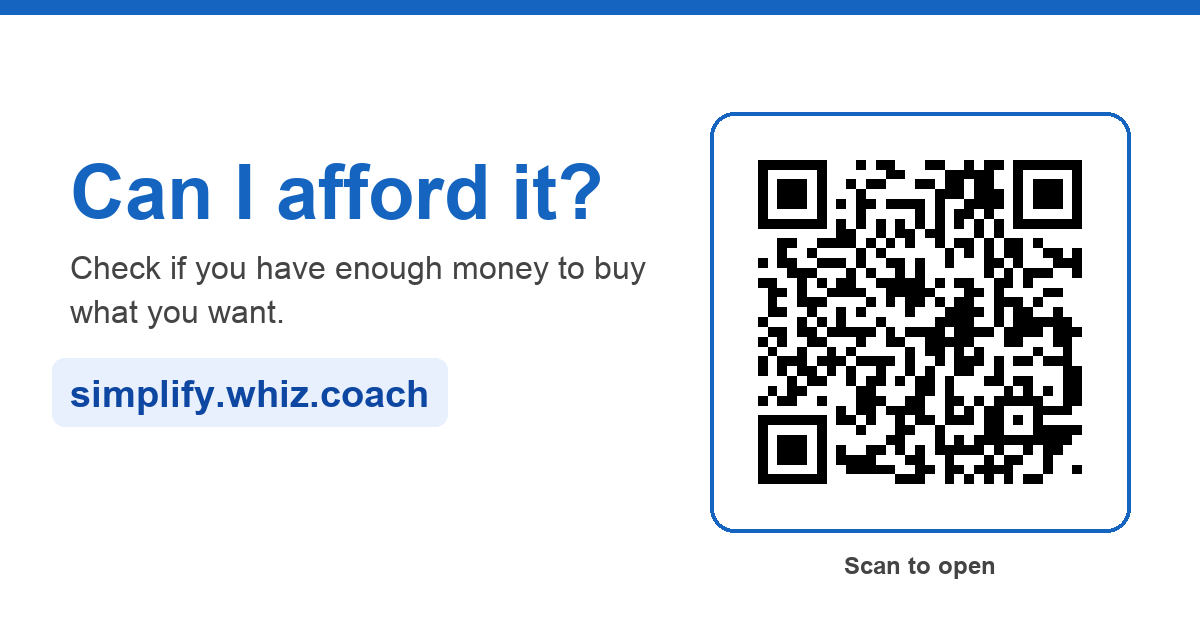
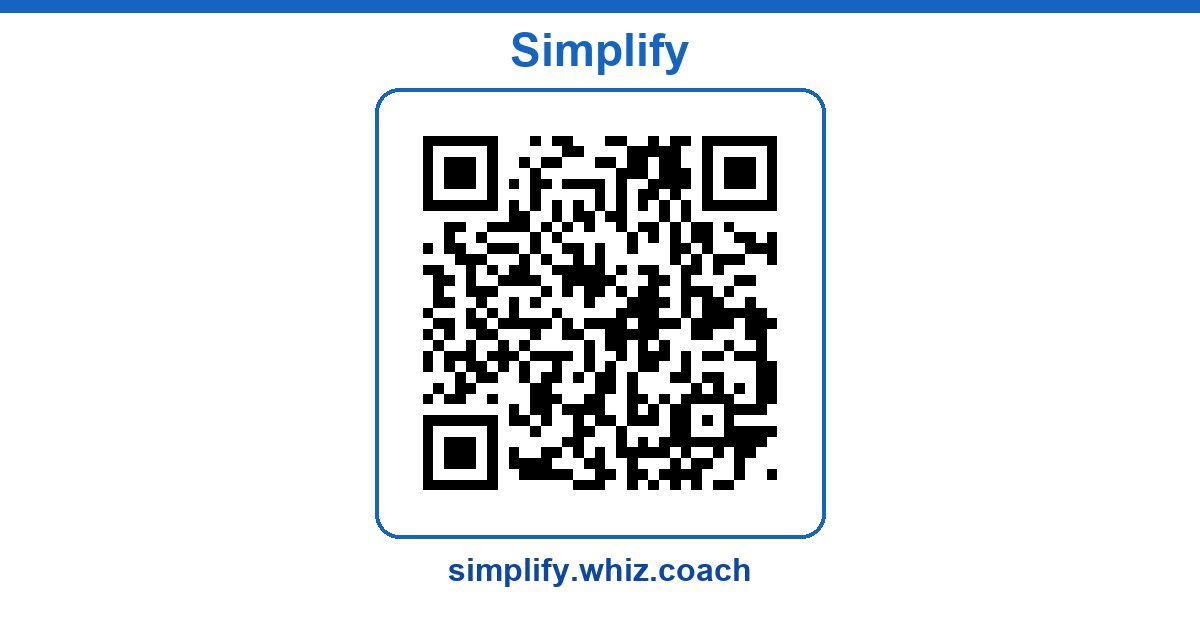
feat: floating verdict badge + WhatsApp-friendly OG card
- Add floating yes/no indicator at the top, fixed so it stays visible
  when the keyboard hides the bottom panel while typing amounts
- Regenerate og-card.png with centred layout: app name, QR, URL all
  fit inside WhatsApp's square crop (the thumbnail discards the
  sides). QR now decodes in every platform's crop ratio
- Update meta tags to 'Simplify' (the app name) and add ?v=2
  cache-buster to og:image URLs, so WhatsApp/Facebook re-fetch
  the new card instead of serving the old one from cache
- Document the WhatsApp-square constraint in README for future edits

Changed region(s): [[0.0, 0.0, 1.0, 0.9349], [0.7092, 0.8746, 0.8325, 0.9349], [0.0617, 0.4825, 0.2467, 0.5127]]

diff --git a/public/index.html b/public/index.html
@@ -10,25 +10,29 @@
 
   <!-- Social sharing preview. The card image carries a QR code for the site
        plus the URL in plain text, so a screenshot of the preview is scannable.
+       The QR sits dead-centre: WhatsApp thumbnails a card by keeping only its
+       middle square, so anything off to one side is the part that vanishes.
        og:image must be absolute; it points at the .web.app origin because that
-       one is always reachable by crawlers regardless of custom-domain DNS. -->
+       one is always reachable by crawlers regardless of custom-domain DNS.
+       The ?v= is a cache-buster — scrapers key their stored copy on the whole
+       URL, so re-drawing the card needs a new one to actually reach anybody. -->
   <meta property="og:type" content="website">
-  <meta property="og:site_name" content="Can I Afford It?">
+  <meta property="og:site_name" content="Simplify">
   <meta property="og:url" content="https://simplify.whiz.coach/">
-  <meta property="og:title" content="Can I Afford It?">
+  <meta property="og:title" content="Simplify">
   <meta property="og:description" content="Check if you have enough money to buy what you want. A simple, offline-friendly money app for special-needs users.">
-  <meta property="og:image" content="https://simplify-special.web.app/img/og-card.png">
+  <meta property="og:image" content="https://simplify-special.web.app/img/og-card.png?v=2">
   <meta property="og:image:type" content="image/png">
   <meta property="og:image:width" content="1200">
   <meta property="og:image:height" content="630">
-  <meta property="og:image:alt" content="Can I afford it? — QR code linking to simplify.whiz.coach">
+  <meta property="og:image:alt" content="Simplify — QR code linking to simplify.whiz.coach">
   <meta property="og:locale" content="en_SG">
 
   <meta name="twitter:card" content="summary_large_image">
-  <meta name="twitter:title" content="Can I Afford It?">
+  <meta name="twitter:title" content="Simplify">
   <meta name="twitter:description" content="Check if you have enough money to buy what you want. A simple, offline-friendly money app for special-needs users.">
-  <meta name="twitter:image" content="https://simplify-special.web.app/img/og-card.png">
-  <meta name="twitter:image:alt" content="Can I afford it? — QR code linking to simplify.whiz.coach">
+  <meta name="twitter:image" content="https://simplify-special.web.app/img/og-card.png?v=2">
+  <meta name="twitter:image:alt" content="Simplify — QR code linking to simplify.whiz.coach">
 
   <link rel="manifest" href="/manifest.webmanifest">
   <link rel="icon" href="/favicon.svg" type="image/svg+xml">
@@ -92,6 +96,12 @@
       </a>
     </footer>
   </main>
+
+  <!-- Floating mirror of the verdict icon, pinned top-center so the answer
+       stays visible while the keyboard covers the bottom panel. Icon only;
+       the panel below carries the words, and it alone talks to screen
+       readers, so this stays aria-hidden. -->
+  <span id="result-float" class="result-float" hidden aria-hidden="true"></span>
 
   <!-- Zone 3: the answer, always visible -->
   <section id="result" class="result is-neutral" role="status" aria-live="polite">

diff --git a/public/css/styles.css b/public/css/styles.css
@@ -291,6 +291,32 @@ h2 {
 }
 .guide-link .guide-icon { font-size: 18px; }
 
+/* ---------- floating verdict icon ---------- */
+/* Fixed top-center so the yes/no survives the keyboard hiding the bottom
+   panel. Shown only for a real verdict — a bare emoji can't carry the
+   neutral hints ("type your money") on its own. */
+.result-float {
+  position: fixed;
+  top: calc(8px + env(safe-area-inset-top));
+  left: 50%;
+  transform: translateX(-50%);
+  display: flex;
+  align-items: center;
+  justify-content: center;
+  width: 52px;
+  height: 52px;
+  font-size: 30px;
+  line-height: 1;
+  border: 3px solid;
+  border-radius: 50%;
+  /* the page-colored halo separates the badge from whatever it floats
+     over — on narrow screens that includes the tail of the h1 */
+  box-shadow: 0 0 0 5px var(--color-bg), 0 3px 10px rgba(0, 0, 0, 0.25);
+  z-index: 40;
+}
+.result-float.is-yes { background: var(--color-yes-bg); border-color: var(--color-yes-text); }
+.result-float.is-no  { background: var(--color-no-bg);  border-color: var(--color-no-text); }
+
 /* ---------- result panel ---------- */
 .result {
   position: fixed;

diff --git a/public/js/result.js b/public/js/result.js
@@ -3,10 +3,10 @@
 
 import { formatCents } from "./money.js";
 
-let panel, icon, headline, subline;
+let panel, icon, headline, subline, float;
 
 export function initResult(els) {
-  ({ panel, icon, headline, subline } = els);
+  ({ panel, icon, headline, subline, float } = els);
 }
 
 export function renderResult({ moneyCents, hasMoney, itemsCents, hasPrices }) {
@@ -39,4 +39,14 @@ function show(stateClass, iconChar, head, sub) {
   icon.textContent = iconChar;
   headline.textContent = head;
   subline.innerHTML = sub;
+
+  // mirror a real verdict at the top of the screen; the neutral hints stay
+  // bottom-only because the bare icon can't carry their meaning
+  const isVerdict = stateClass !== "is-neutral";
+  float.hidden = !isVerdict;
+  if (isVerdict) {
+    float.classList.remove("is-yes", "is-no");
+    float.classList.add(stateClass);
+    float.textContent = iconChar;
+  }
 }

diff --git a/public/js/app.js b/public/js/app.js
@@ -47,6 +47,7 @@ initResult({
   icon: $("result-icon"),
   headline: $("result-headline"),
   subline: $("result-subline"),
+  float: $("result-float"),
 });
 
 initPicker(

diff --git a/tools/make-qr.py b/tools/make-qr.py
@@ -8,6 +8,7 @@ from PIL import Image, ImageDraw, ImageFont
 
 URL = "https://simplify.whiz.coach/"
 URL_LABEL = "simplify.whiz.coach"
+APP_NAME = "Simplify"          # the app; "Can I afford it?" is only its first page
 TITLE = "Can I afford it?"
 TAGLINE = "Check if you have enough money to buy what you want."
 
@@ -72,48 +73,45 @@ def wrap(draw, text, fnt, max_w):
 
 
 def make_og_card(path):
-    """1200x630 Open Graph / Twitter summary_large_image card."""
+    """1200x630 Open Graph / Twitter summary_large_image card.
+
+    Everything is centred on purpose. WhatsApp — the main way this link gets
+    shared — thumbnails a card by cropping the middle square (here x 285..915)
+    and throws the rest away, so a QR sitting off to one side is exactly the
+    part that disappears. Name, QR and URL therefore all live inside that
+    middle square; the wide margins are only ever seen on the platforms that
+    render the full 1.91:1 card.
+    """
     W, H = 1200, 630
+    safe_x0, safe_x1 = (W - H) // 2, (W + H) // 2   # the square WhatsApp keeps
     img = Image.new("RGB", (W, H), WHITE)
     d = ImageDraw.Draw(img)
 
     # Top accent bar in the app's theme colour.
-    d.rectangle([0, 0, W, 14], fill=PRIMARY)
+    d.rectangle([0, 0, W, 12], fill=PRIMARY)
 
-    # --- Right: QR on a bordered white tile ---
-    tile = 420
-    tile_x, tile_y = W - tile - 70, (H - tile) // 2 + 7
+    cx = W // 2
+
+    def centred(text, fnt, y, fill):
+        d.text((cx - d.textlength(text, font=fnt) / 2, y), text, font=fnt, fill=fill)
+
+    centred(APP_NAME, bold(46), 24, PRIMARY)
+
+    # QR on a bordered white tile, sized as large as the square crop allows
+    # once the name above and the URL below have their room.
+    tile, tile_y = 450, 88
+    tile_x = cx - tile // 2
     d.rounded_rectangle([tile_x, tile_y, tile_x + tile, tile_y + tile],
                         radius=24, fill=WHITE, outline=PRIMARY, width=4)
-    qr = qr_image(URL, module_px=8, quiet=2)
-    qr_size = tile - 56
-    qr = qr.resize((qr_size, qr_size), Image.NEAREST)
-    img.paste(qr, (tile_x + 28, tile_y + 28))
+    qr_size = tile - 52
+    qr = qr_image(URL, module_px=8, quiet=2).resize((qr_size, qr_size), Image.NEAREST)
+    img.paste(qr, (tile_x + 26, tile_y + 26))
 
-    cap = bold(24)
-    cap_text = "Scan to open"
-    d.text((tile_x + (tile - d.textlength(cap_text, font=cap)) / 2, tile_y + tile + 20),
-           cap_text, font=cap, fill=MUTED)
+    # Readable URL, so a preview that is screenshotted or never scanned still
+    # tells the reader where to go.
+    centred(URL_LABEL, bold(32), tile_y + tile + 14, PRIMARY_DARK)
 
-    # --- Left: title, tagline, URL ---
-    x = 70
-    y = 150
-    t = bold(76)
-    d.text((x, y), TITLE, font=t, fill=PRIMARY)
-    y += 100
-
-    tag = regular(32)
-    for line in wrap(d, TAGLINE, tag, tile_x - x - 60):
-        d.text((x, y), line, font=tag, fill=MUTED)
-        y += 44
-
-    y += 34
-    u = bold(38)
-    url_w = d.textlength(URL_LABEL, font=u)
-    d.rounded_rectangle([x - 18, y - 14, x + url_w + 18, y + 54],
-                        radius=12, fill="#e8f0fe")
-    d.text((x, y), URL_LABEL, font=u, fill=PRIMARY_DARK)
-
+    assert safe_x0 <= tile_x and tile_x + tile <= safe_x1, "QR escapes the square crop"
     img.save(path, "PNG", optimize=True)
     return img.size
 

diff --git a/README.md b/README.md
@@ -94,6 +94,12 @@ When releasing a new version, bump the `CACHE` version string in
   `summary_large_image` card referenced from `public/index.html`. It contains a
   QR code for <https://simplify.whiz.coach/> **and** the URL as readable text,
   so a screenshot of the link preview is still scannable and typeable.
+  The app name, QR and URL are all centred inside the middle 630×630 square,
+  because WhatsApp — the main sharing route — crops a preview to that square
+  and discards the rest. Keep anything that must survive inside it. The
+  `og:image` URL carries a `?v=` cache-buster: scrapers key their cached copy
+  on the full URL, so bump it whenever the card is redrawn, or WhatsApp and
+  Facebook will keep serving the old picture.
 - `public/img/qr-poster.png` (1000×1240) is a standalone QR for printed
   handouts or posters.
 - Both are generated offline (no third-party QR service) with `segno` +
